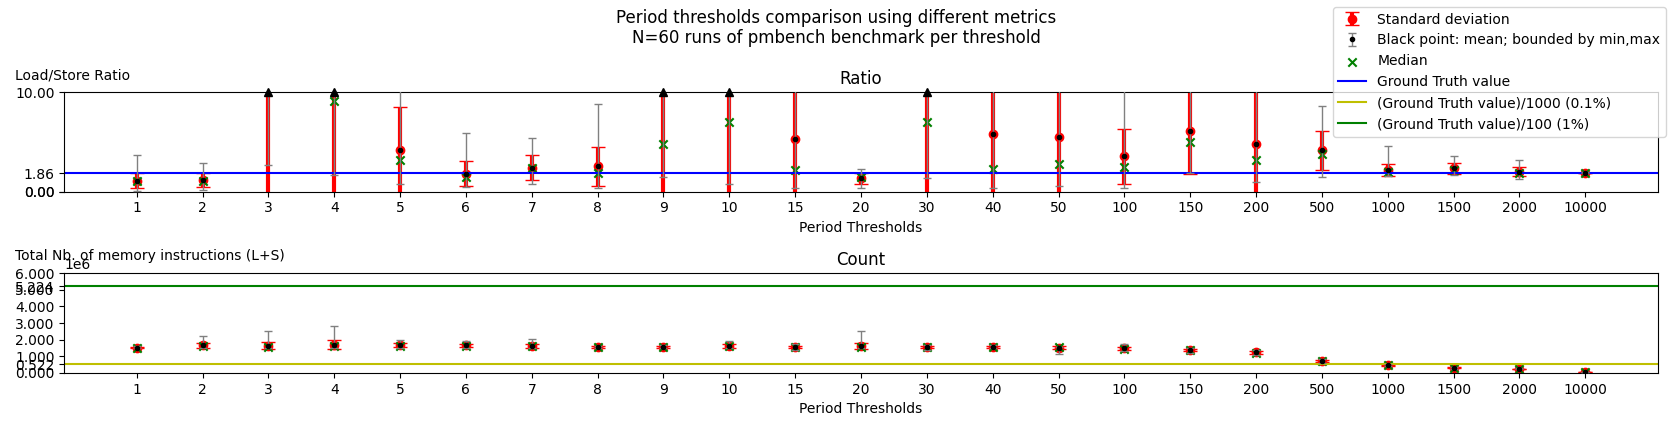
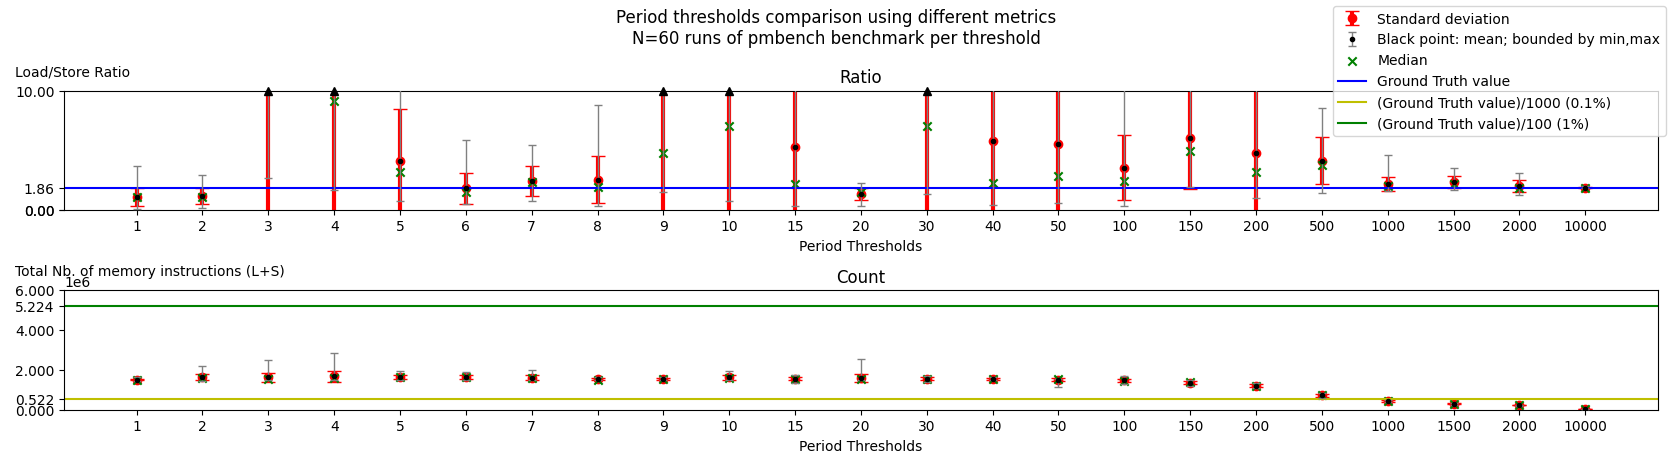
update poster graph

diff --git a/benchmarks/results/PyHelpers/make_threshold_graphs.py b/benchmarks/results/PyHelpers/make_threshold_graphs.py
@@ -103,7 +103,7 @@ def generate_figure(use_period, data_dict: dict, mode: str, n: str, poster):
     opt_writes = opt_count - opt_reads
     opt_ratio = float(opt_reads / opt_writes)
     plt.rcParams.update({'figure.autolayout': True})
-    fig, axs = plt.subplots(len(data_dict.values()) if not poster else 2, figsize=(12, 10))
+    fig, axs = plt.subplots(len(data_dict.values()) if not poster else 2, figsize=(12, 10) if not poster else (14,7) )
     fig.suptitle(
         f"{'Period' if use_period else 'Frequency'} thresholds comparison using different metrics\nN={n} runs of {mode} benchmark per threshold")
     at = 0
@@ -206,8 +206,6 @@ def main():
     fig = generate_figure(count, data, args.mode, n,args.poster)
     if not args.latex:
         fig.show()
-    if args.poster:
-        fig.set_size_inches(w=16.72783, h=(8.62205/2))
     #else:
     #    fig.set_size_inches(w=9,h=9) # 5.95114 gotten by executing \printinunitsof{in}\prntlen{\textwidth} in latex
     # fig.savefig(parent_path + '/stats.png')
@@ -215,7 +213,7 @@ def main():
     assert output_path.is_dir()
     if not output_path.exists():
         output_path.mkdir()
-    fig.savefig(f"{output_path.as_posix()}/{'poster_' if args.poster else ''}{args.mode}_n{n}_stats.{'pgf' if args.latex else 'png'}")
+    fig.savefig(f"{output_path.as_posix()}/{'poster_only_one_' if args.poster else ''}{args.mode}_n{n}_stats.{'pgf' if args.latex else 'png'}")
 
 
 if __name__ == "__main__":
